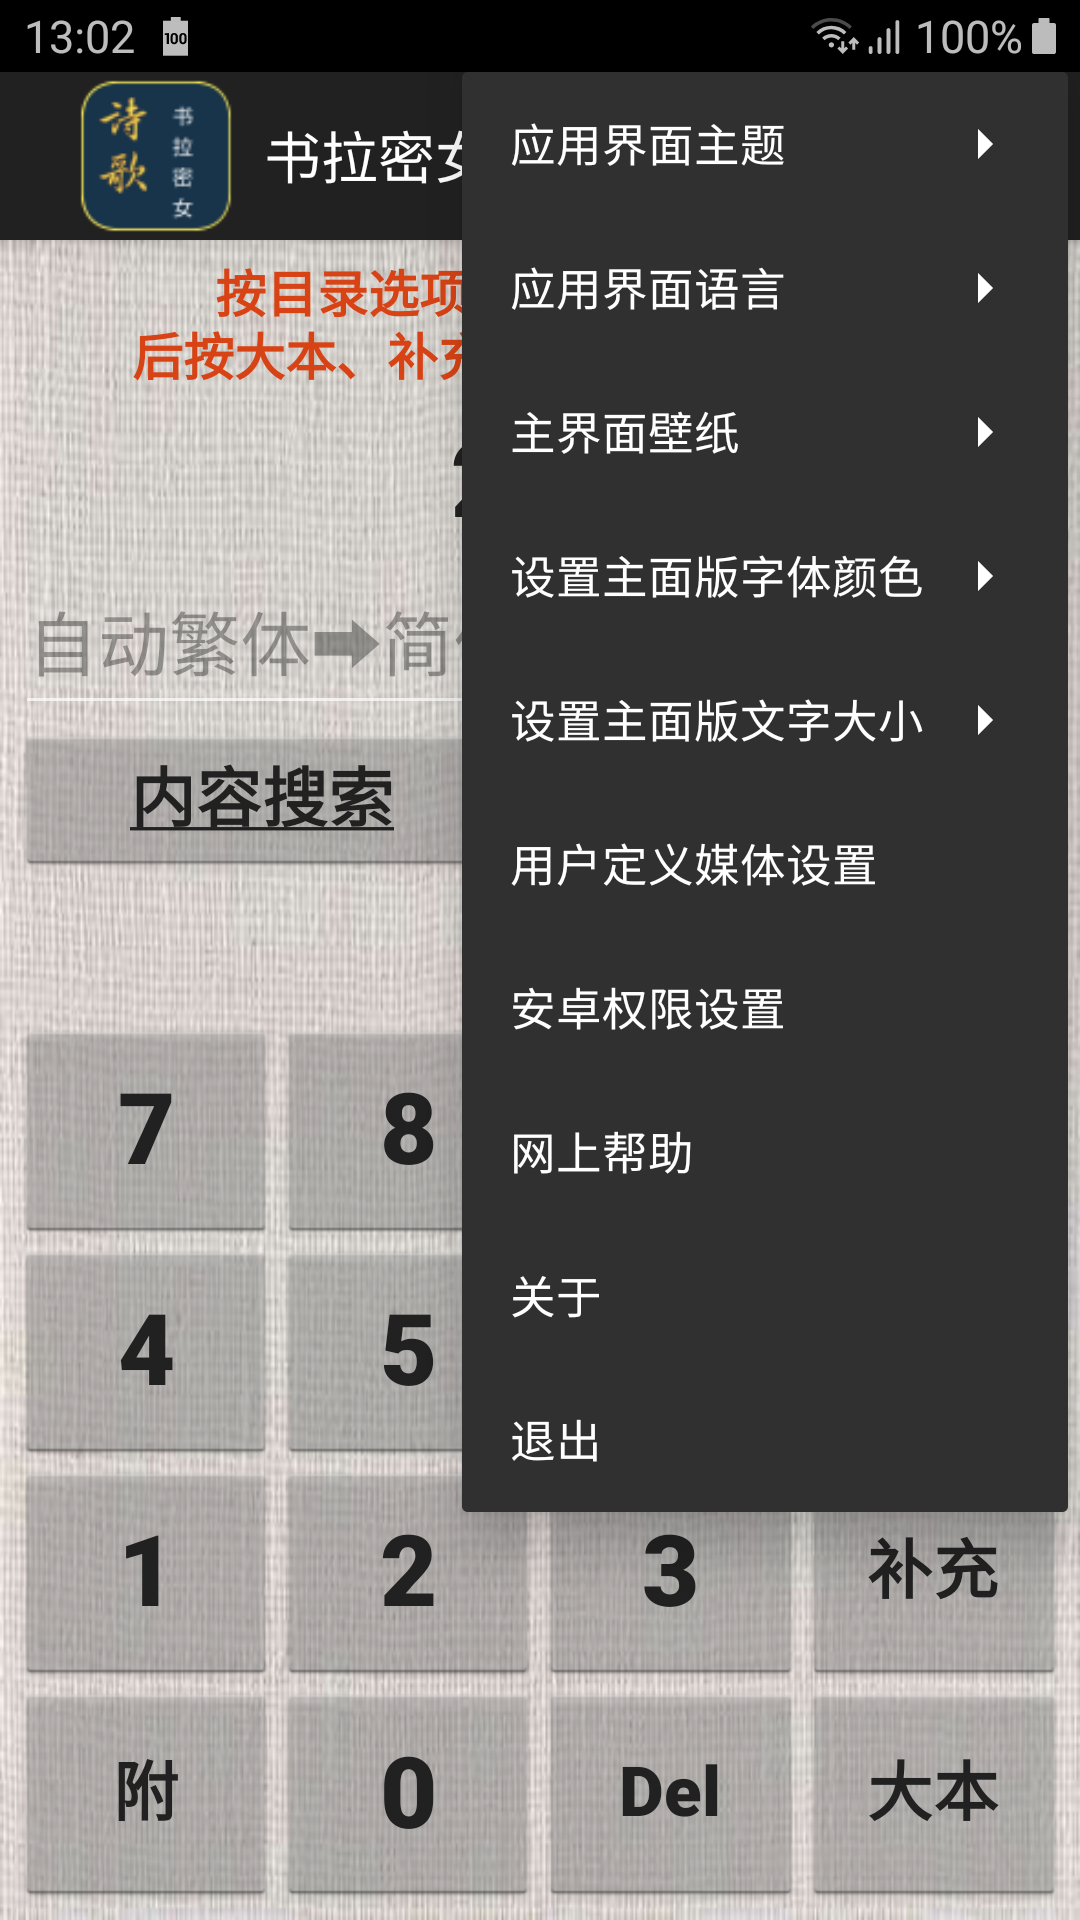
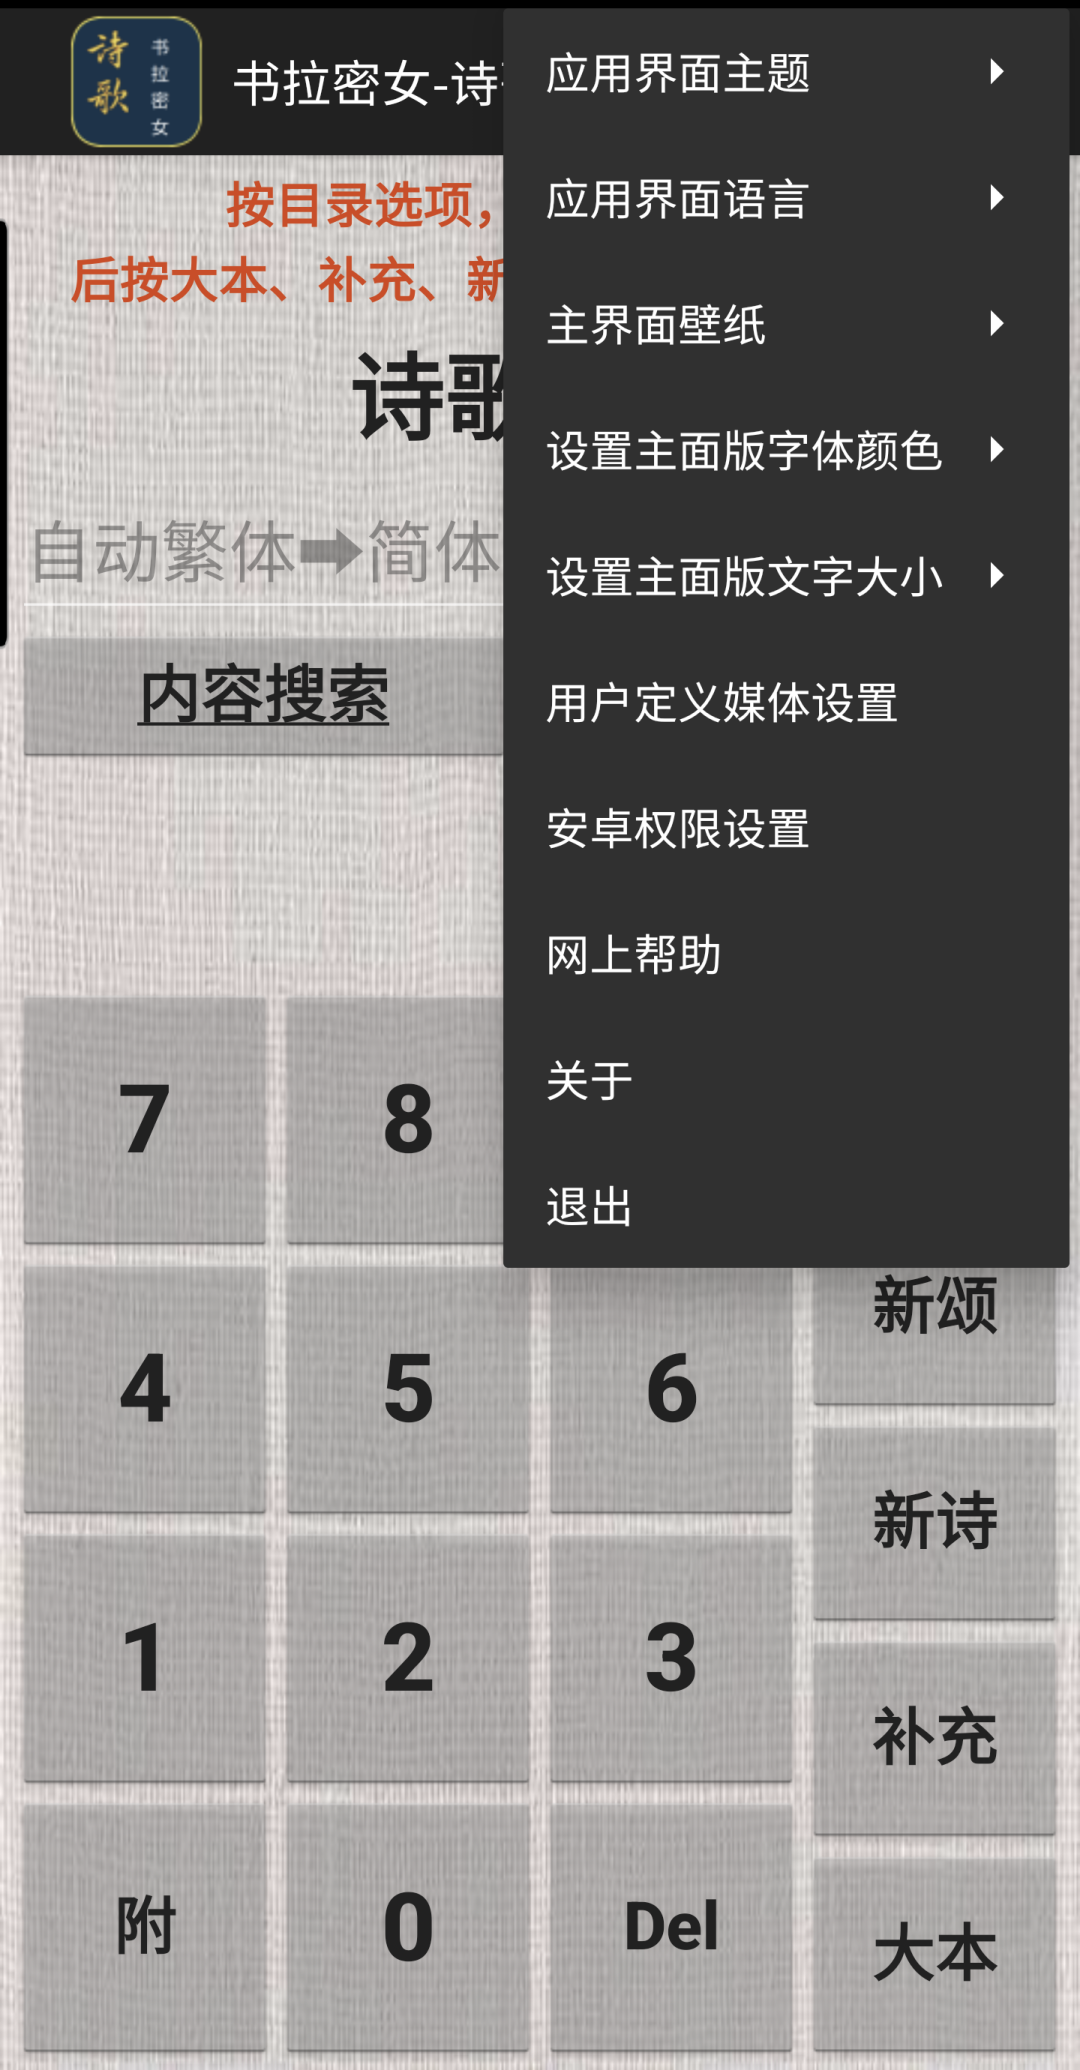
Update hymnchtv per 2.3.0 release

diff --git a/hymnchtv/faq.html b/hymnchtv/faq.html
@@ -93,13 +93,13 @@ ul li {
      <h4>hymnchtv UI desgin &amp; Implementation</h4>
      <image src="./img/hymnchtv_help_qrcode.png" align="right" width="20%" style="margin:5px 0px 20px 15px"/>
      <ul>
-       <li><a href=#hymnch_0090>[20220528] Hymnchtv debug version installation</a></li>
+       <li><a href=#hymnch_0090>[20240606] Hymnchtv debug version installation</a></li>
      </ul>
      <ul>
        <li><a href=#hymnch_0010>[20240518] hymnchtv UI design &amp; Implementation</a></li>
      </ul>
      <ul>
-       <li><a href=#hymnch_0020>[20240522] hymnchtv main user interface</a></li>
+       <li><a href=#hymnch_0020>[20240606] hymnchtv main user interface</a></li>
      </ul>
      <ul>
        <li><a href=#hymnch_0030>[20201220] <b>Hymn Category</b> and <b>Content Search</b> result display</a></li>
@@ -120,7 +120,7 @@ ul li {
        <li><a href=#hymnch_0070>[20240524] User defined media configuration</a></li>
      </ul>
      <ul>
-       <li><a href=#hymnch_0080>[20240524] User defined media database configuration</a></li>
+       <li><a href=#hymnch_0080>[20240606] User defined media database configuration</a></li>
      </ul>
 
 
@@ -141,12 +141,15 @@ ul li {
    <div id='subSection'>hymnchtv UI design &amp; Implementation</div>
 
    <span id='hymnch_0090'></span>
-   <div class='blueText'>[20220528] Hymnchtv debug version installation <a href=#content>{ Content }</a></div>
+   <div class='blueText'>[20240606] Hymnchtv debug version installation <a href=#content>{ Content }</a></div>
    <div class='innerText'>
-     You may obtain a copy of the latest hymnchtv debug apk for your personal evaluation from the link below:
-     <li><a href="https://raw.githubusercontent.com/cmeng-git/hymnchtv/master/hymnchtv/release/hymnchtv-debug.apk">
-     https://raw.githubusercontent.com/cmeng-git/hymnchtv/master/hymnchtv/release/hymnchtv-debug.apk</a></li>
      <image src="./img/hymnchtv_apk_qrcode.png" align="right" width="20%" style="margin:5px 0px 20px 15px"/>
+     You may obtain a copy of the latest hymnchtv debug apk for your personal evaluation from the directory:<br />
+     <a href="https://github.com/cmeng-git/hymnchtv/releases">"https://github.com/cmeng-git/hymnchtv/releases</a>, the
+     lastest release at the time of this help update is: </div>
+   <div class='innerText'>
+     <li><a href="https://github.com/cmeng-git/hymnchtv/releases/download/2.3.0/hymnchtv-debug.apk">
+     https://github.com/cmeng-git/hymnchtv/releases/download/2.3.0/hymnchtv-debug.apk</a></li>
    </div>
    <div class='innerText'>Please note that the debug apk contains a different signature from the one in android
      playstore apk. Android OS will prompt you to uninstall the existing app if any, before you can install the debug
@@ -183,14 +186,14 @@ ul li {
    </div>
 
    <span id='hymnch_0020'></span>
-   <div class='blueText'>[20240522] hymnchtv main user interface <a href=#content>{ Content }</a></div>
+   <div class='blueText'>[20240606] hymnchtv main user interface <a href=#content>{ Content }</a></div>
    <div class='innerText'>This is the main hymnchtv UI that is shown when user launches the hymnchtv application. From
      the main UI, you have accessed to all the hymnchtv features implementation, pop-up menu and the main pull down options menu.
      <image src="./img/01.hymnchtv_main.png" align="left" width="25%" style="margin:5px 25px 5px 0px"/>
-     <image src="./img/hymnchtv_recent_hymns.png" align="right" width="20%" style="margin:5px 0px 20px 15px"/>
      <ul>
        <li><b>Hymn Selection</b>: User enters the required hymn number using the numerical and <b>附</b>/fu buttons if
-         applicable. Then select the HymnType i.e. <b>[大本|补充|新颂|儿诗|英文]</b> to enter the hymn lyrics display and media playback UI page.
+         applicable. Then select the HymnType i.e. <b>[大本|补充|新诗|新颂|儿诗|英文]</b> to enter the hymn lyrics display and media playback UI page.
+         <image src="./img/hymnchtv_recent_hymns.png" align="right" width="20%" style="margin:5px 0px 20px 15px"/>
          <br />When user selects the <b>英文</b> button, the entered hymnNo is treated as English Hymn number. The app
          will search and display the corresponding Chinese Hymn UI, and start fetching its corresponding English lyrics.</li>
        <li><b>输入诗歌编号&#11015;</b>: If user clicks on this field title, a list of most recent user selected hymns
@@ -258,9 +261,9 @@ ul li {
 
    <span id='hymnch_0040'></span>
    <div class='blueText'>[20240517] Hymn lyrics and media player UI interface <a href=#content>{ Content }</a></div>
-   <image border="2px solid blue" src="./img/11.hymnchtv_context_menu.png" align="right" width="25%" style="margin:5px 0px 20px 15px"/>
    <div class='innerText'>The image on the right shows the hymn content display UI after user has selected
      the desired HymnNo and HymnType. The window displays the actual hymn lyrics score, and the lyrics text just below
+     <image border="2px solid blue" src="./img/11.hymnchtv_context_menu.png" align="right" width="25%" style="margin:5px 0px 20px 15px"/>
      it. User scrolls up/down to bring the score or text into viewing area. To view the previous or next hymn info, user
      slides left or right. The hymn info displays in the media player UI will change according to the user selected HymnNo.
      Long press within the lyrics display area will popup the context menu with options as follows:
@@ -308,8 +311,8 @@ ul li {
          allows user to select the final conversion type for Traditional Chinese lyrics display:</li>
        <ul>
          <li><b>简体到繁体</b>: Simplified Chinese to Traditional Chinese (Standard).</li>
-         <image border="2px solid blue" src="./img/hymnchtv_conversion_ui.png" align="right" width="25%" style="margin:5px 0px 20px 15px"/>
          <li><b>简体到香港繁体</b>: Simplified Chinese to Traditional Chinese (Hong Kong Standard).</li>
+         <image border="2px solid blue" src="./img/hymnchtv_conversion_ui.png" align="right" width="25%" style="margin:5px 0px 20px 15px"/>
          <li><b>简体到台湾正体</b>: Simplified Chinese to Traditional Chinese (Taiwan Standard)</li>
          <li><b>简体到台湾正体，并转换为台湾常用词汇</b>: Simplified Chinese to Traditional Chinese (Taiwan Standard) with Taiwanese idiom.</li>
        </ul>
@@ -613,7 +616,7 @@ ul li {
   </div>
 
    <span id='hymnch_0080'></span>
-   <div class='blueText'>[[20240524] User defined media database configuration <a href=#content>{ Content }</a></div>
+   <div class='blueText'>[[20240606] User defined media database configuration <a href=#content>{ Content }</a></div>
    <div class='innerText'><b>Note:</b> When a new hymnchtv version is installed, its database media links are updated
      with new records from an asset file. User old media records in the databse, if any will be left untouched. A copy
      of the asset file will be saved in the "./import_export/url_import-&lt;timeStamp>.txt". User may refer to this
@@ -626,13 +629,15 @@ ul li {
      using the tools described below: 
      <ul>
        <image src="./img/hymnchtv_media_db_config.png" align="right" width="25%" style="margin:5px 0px 20px 15px"/>
-       <li><b>数库导出</b>: <b>Short click</b> this option button to export all the four defined HymnType's media records and
-         the <b>网页链接</b> links. The exported file is saved in the hymnchtv pre-defined directory e.g.
-         Download/hymnchtv/import_export/hymn_all-20211213_142504.txt. The format of the filename is
-         Hymn_all-&lt;timestamp>.txt, where the timestamp format is "YYYYMMDD_HHMMSS".<br />
-         <b>Long press</b>: If you long press</b> on this option button,
-         the file will only contain the media records with url links, and the file is named with hymn_link-&lt;timestamp>.txt.
-         This url link-only file is shared with others without the need to transfer the actual media files </li>
+       <li><b>数库导出</b>: <b>Short click</b> this option button to export all the four defined HymnType's media records
+         that contain only the <b>网页链接</b> links. This url link-only file is shared with others without the need to
+         transfer the actual media files. The exported file is saved in the hymnchtv pre-defined directory
+         e.g. Download/hymnchtv/import_export/hymn_link-20240606_142504.txt. The format of the filename is
+         hymn_link-&lt;timestamp>.txt, where the timestamp format is "YYYYMMDD_HHMMSS".<br />
+         <b>Long press</b>: this option button to export all media records with url links, including local media file
+         paths. When sharing this file with others, you must also transfer all your local media files to your buddy.
+         The exported file is saved in the hymnchtv pre-defined directory e.g.
+         Download/hymnchtv/import_export/hymn_all-20240213_142504.txt. />
        <li><b><a href="./index.html#create_export">自建导入</a></b>: Instead of creating an individual media record for
          each of the user desired media content saved locally, as described in the <a href='#hymnch_0070'>previous section</a>;
          one can actually use the auto-create import file for batch media contents import. See below on the actual

diff --git a/hymnchtv/index.html b/hymnchtv/index.html
@@ -66,13 +66,14 @@
     <ul>
       <li>使用最新的 Android Pager Adapter 进行平滑滚动更顺畅</li>
       <li>直接输入诗歌编号以显示歌词；或从目录分类进入："诗歌类别"，"笔画索引"，"拼音索引"，和"英中对照"</li>
-      <li>给予完整大本詩歌，補充本詩歌，新歌颂咏，及儿童诗歌歌，诗词搜索和选项进入</li>
+      <li>给予完整大本詩歌，補充本詩歌，新诗歌本，新歌颂咏，儿童诗歌，及英文， 诗词搜索和选项进入</li>
+      <li>允许直接输入英文诗歌编号；显示相应的中文诗歌词（如果存在），否则只显示英文歌词</li>
       <li>最大搜索为200项，显示匹配结果的4行完整诗词句</li>
-      <li>长按[内容搜索]按钮即可将输入文字词组转换‘他’&#10145;‘祂’</li>
+      <li>在内容搜索开始之前自动将繁体中文翻译为简体文本。长按[内容搜索]按钮即可将输入文字词组转换‘他’&#10145;‘祂’</li>
       <li>以最大允许的屏幕大小，同时显示诗歌乐谱和歌词文本</li>
       <li>手机横向模式时，媒体播放器界面自动隐藏；乐谱和歌词文本，显示自动加大150%，易于阅读</li>
-      <li>媒体播放类别：用户定义媒体，伴奏，教唱，唱诗</li>
-      <li>支持QQ媒体链接、YouTube、谷歌搜索功能</li>
+      <li>媒体播放类别：用户定义媒体，教唱，唱诗，伴奏</li>
+      <li>支持 QQ/Notion 媒体链接、YouTube、网络搜索功能</li>
       <li>用户定义媒体内容的支持，即每个诗歌标题的视频和音频以进行播放</li>
       <li>支持安卓共享以添加媒体内容，或来自第三方应用程序的网址链接作为用户定义的媒体内容</li>
       <li>允许导出保存中的用户定义媒体内容，以通过导入与其他安卓设备共享</li>
@@ -81,10 +82,10 @@
       <li>包括嵌入式视频媒体播放器，用于播放用户定义的视频媒体和其他优酷网址</li>
       <li>开发新的音频媒体播放器用户界面。给用户最大的控制权</li>
       <li>可调媒体播放速度：0.6x〜1.4x；和可选重复次数播放</li>
+      <li>可自我下载并复制媒体文件到预定义的目录（Download/hymnchtv）以用于播放</li>
       <li>网络媒体下载仅一次；内部存储，供以后播放</li>
       <li>媒体播放同步于用户新选诗歌编号，无需返回主页</li>
       <li>诗歌媒体播放以当前状态继续，直到歌曲结束；然后再同步用户新选诗歌编号</li>
-      <li>可自我下载并复制媒体文件到预定义的目录（Download/hymnchtv）以用于播放</li>
       <li>用户可选择主题支持：Theme.DARK 和 Theme.LIGHT, 包括 WebView</li>
       <li>用户可选择的语言环境：简体中文和英文</li>
       <li>在中文歌词显示中支持中文简体到繁体（香港繁体，台湾正体，或台湾常用词汇）转换</li>
@@ -109,8 +110,8 @@
 				<li class="animated wow fadeInDown">
 					<h2>书拉密女诗歌本应用程序主用户界面</h2>
 					<div class="media">
-            <image src="./img/01.hymnchtv_main.png"/>
-						<p>诗歌输入可使用诗歌编号，目录选项或简体中文内容搜索。诗歌编号：输入(附)号码后按大本，补充，新颂，儿诗或英文。
+            <image src="./img/01.hymnchtv_main.png" height="90%"/>
+						<p>诗歌输入可使用诗歌编号，目录选项或简体中文内容搜索。诗歌编号：输入(附)号码后按大本，补充，新诗，新颂，儿诗或英文。
 						内容搜索：长按[内容搜索]按钮即可将输入文字词组转换‘他’&#10145;‘祂’。</p>
 					</div>					
 				</li>
@@ -134,7 +135,7 @@
 				<li class="animated wow fadeInDown" data-wow-delay=".3s">
 					<h2>用户诗歌目录类别索引选项界面</h2>
 					<div class="media">
-            <image src="./img/04.hymnchtv_main_toc.png"/>
+            <image src="./img/04.hymnchtv_main_toc.png" height="95%"/>
 						<p>用户可用诗歌目录选择："诗歌类别"，"笔画索引"，"拼音索引"，和"英中对照"；后按大本,补充,新颂或儿诗进入。请检阅 <a style="color:blue"; href='./faq.html#hymnch_0020'>应用程序</a></p>
 					</div>
 				</li>
@@ -182,7 +183,7 @@
 				<li class="animated wow fadeInDown" data-wow-delay="0.8s">
 					<h2>用户选择诗歌乐谱和歌词文本中显示</h2>
 					<div class="media">
-            <image src="./img/10.hymnchtv_lyrics_text.png"/>
+            <image src="./img/10.hymnchtv_lyrics_text.png" height="95%"/>
 						<p>诗歌乐谱和歌词文本显示。向上下滚动以阅读内容。手机横向模式时，媒体播放器界面自动隐藏；乐谱和歌词文本，自动加大1.5倍易于阅读。</p>
 					</div>
 				</li>
@@ -190,7 +191,7 @@
 				<li class="animated wow fadeInDown" data-wow-delay="0.8s">
 					<h2>书拉密女诗歌弹出上下文菜单</h2>
 					<div class="media">
-            <image src="./img/11.hymnchtv_context_menu.png"/>
+            <image src="./img/11.hymnchtv_context_menu.png" height="95%"/>
 						<p>长按诗歌显示画面弹出上下文菜单选项：默认显示/隐藏播放条，显示/隐藏播放条；或[英文歌词]选项，如有相关的英文词歌文本。手机横向模式时，媒体播放器界面自动隐藏。<a style="color:blue"; href='./faq.html#hymnch_0040'>应用程序</a></p>
 					</div>
 				</li>
@@ -198,7 +199,7 @@
 				<li class="animated wow fadeInDown" data-wow-delay="0.8s">
 					<h2>用户选择诗歌其英文词歌文本显示</h2>
 					<div class="media">
-            <image src="./img/12.hymnchtv_lyrics_english.png"/>
+            <image src="./img/12.hymnchtv_lyrics_english.png" height="95%"/>
 						<p>按英文歌词按钮或长按诗歌显示画面弹出上下文菜单选项；然后选择[英文歌词]选项；则应用会自动访问在线相关的英文词歌文本。使用[返回键]返回上一屏幕</p>
 					</div>
 				</li>
@@ -244,7 +245,7 @@
 				<li class="animated wow fadeInDown" data-wow-delay="0.8s">
 					<h2>最近诗歌历史记录选择支持</h2>
 					<div class="media">
-            <image src="./img/hymnchtv_hymn_history.png"/>
+            <image src="./img/hymnchtv_recent_hymns.png" height="95%"/>
 						<p>只需单击 [输入诗歌编号&#11015;] 显示位置，即可显示最近诗歌选择历史。然后选择诗歌编号项目进入。列表首先显示最近选择的诗歌编号。</p>
 					</div>
 				</li>
@@ -252,7 +253,7 @@
 				<li class="animated wow fadeInDown" data-wow-delay="0.8s">
 					<h2>关于书拉密女诗歌应用程序</h2>
 					<div class="media">
-            <image src="./img/13.hymnchtv_about.png"/>
+            <image src="./img/13.hymnchtv_about.png" height="95%"/>
 						<p>关于书拉密女诗歌程序界面。选择历史记录以查看应用程序发布记录日志。如果遇到应用程序问题，可以提交错误报告。更新选项仅在调试版本中可用。</p>
 					</div>
 				</li>
@@ -260,7 +261,7 @@
 				<li class="animated wow fadeInDown" data-wow-delay="0.8s">
 					<h2>书拉密女诗歌应用程序主菜单选项</h2>
 					<div class="media">
-            <image src="./img/14.hymnchtv_option_menu.png"/>
+            <image src="./img/14.hymnchtv_option_menu.png" height="95%"/>
 						<p>用户可选的主菜单选项包括墙纸，字体大小，字体颜色，访问网上帮助以及关于书拉密女诗歌应用程序</p>
 					</div>
 				</li>
